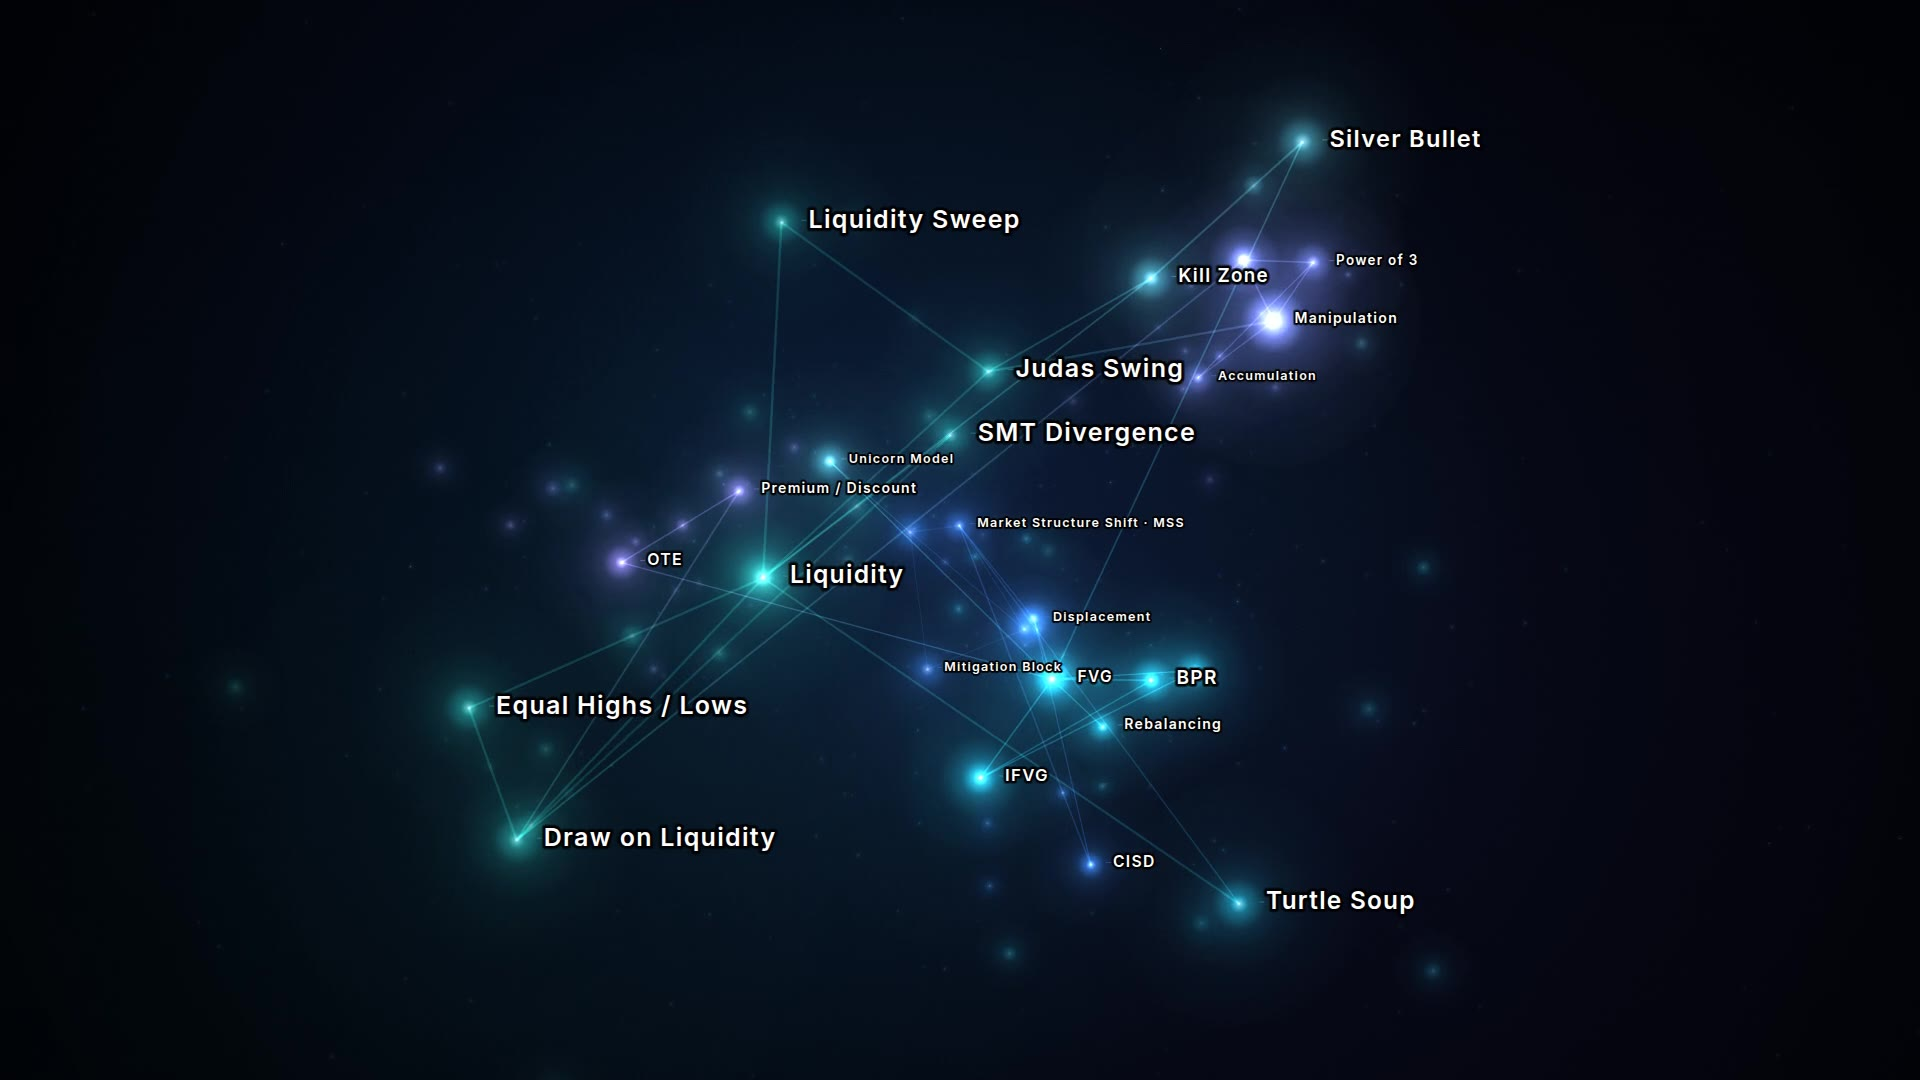
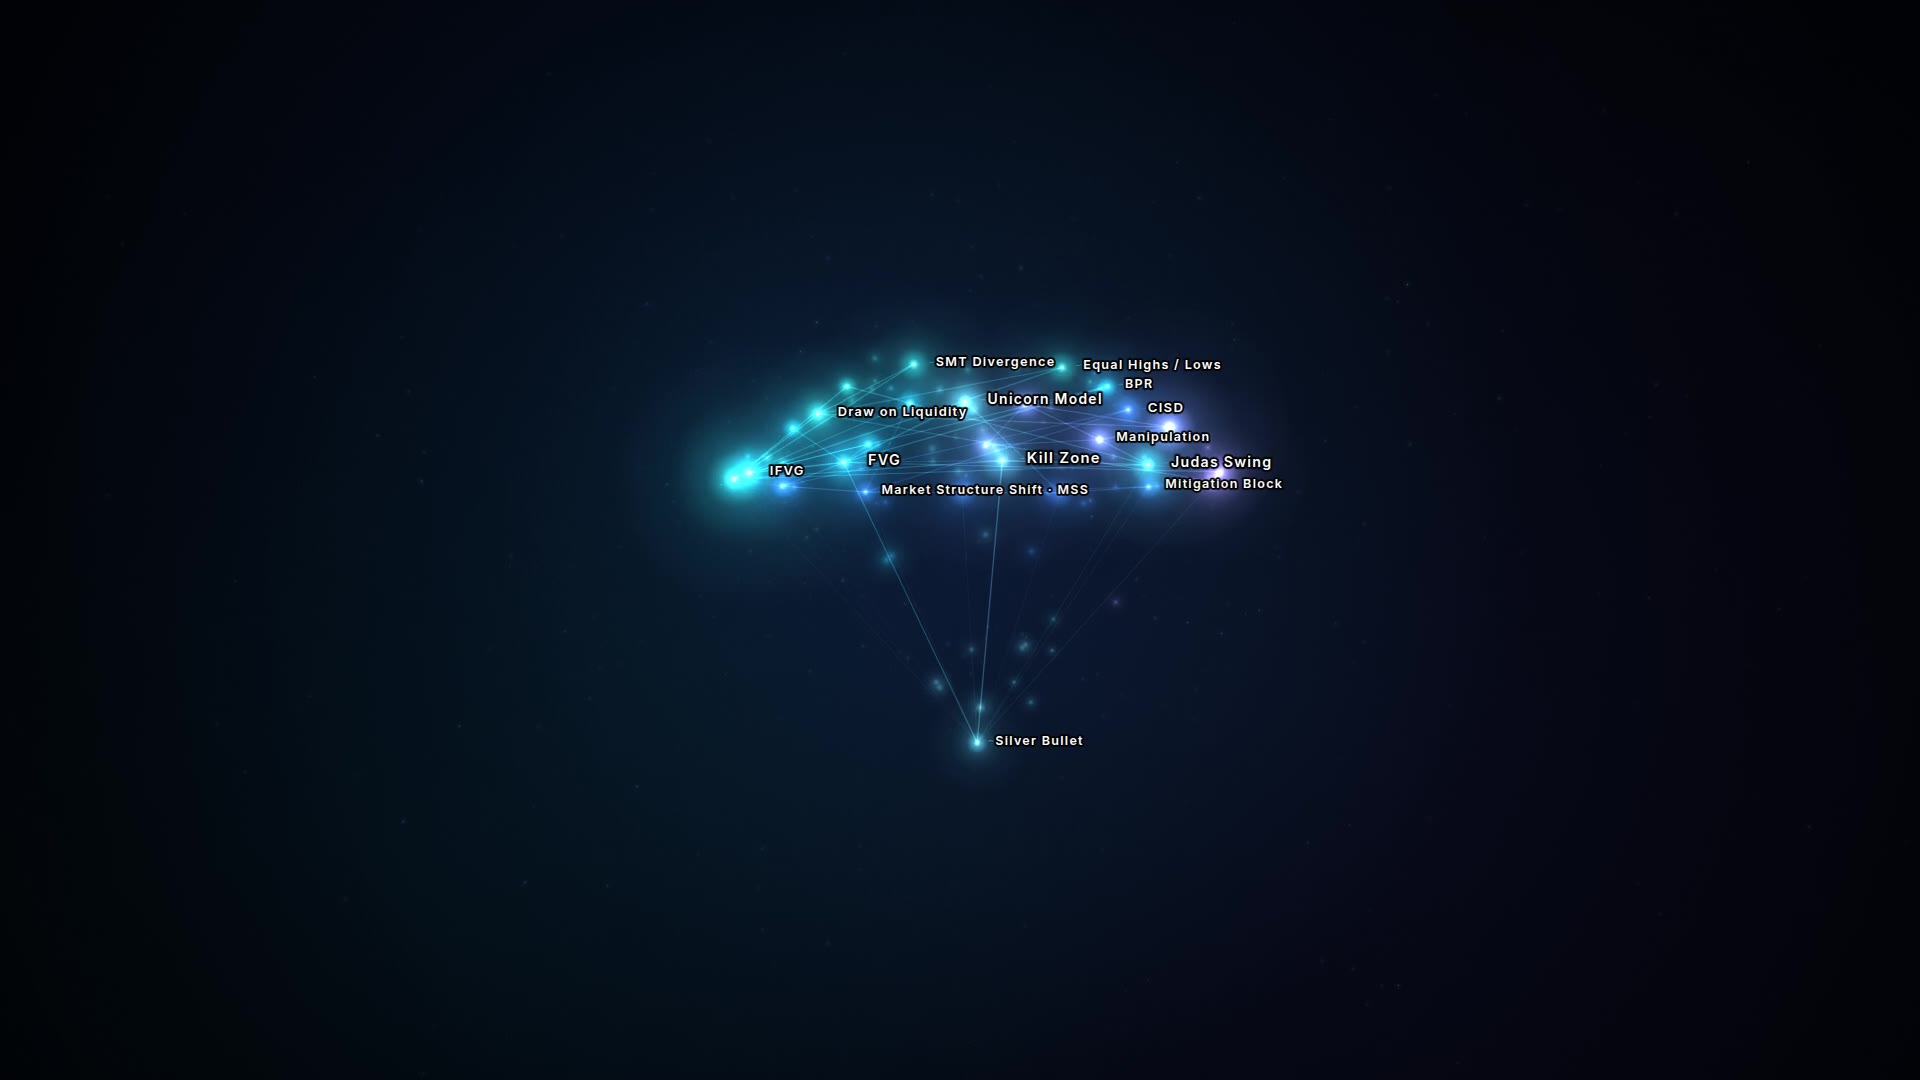
Reshape the graph into a forming diamond (berlian) before it collapses
The 27 concept nodes are now laid out on a 3D brilliant-cut gem — girdle
ring, culet point, crown and flat table — so as they ignite the graph
slowly forms a glowing diamond. A faceted wireframe (girdle outline,
pavilion-to-culet, crown, table) traces the silhouette; the camera settles
to a side-on pull-back and labels fade so the full reveal is a pure gem of
light, which then collapses inward and forges into the golden plug ICT
lockup. Node wobble reduced and camera path retuned to keep the gem crisp.

Claude-Session: https://claude.ai/code/session_01D4b59pq9wWdHZncFjxwX3y

diff --git a/assets/video/knowledge-graph/index.html b/assets/video/knowledge-graph/index.html
@@ -164,25 +164,53 @@ const byName = {}; nodes.forEach(n=>byName[n.name]=n);
 edges = EDGES.map(e=>({a:byName[e[0]], b:byName[e[1]], key:e[2],
                        ph:rng(), cyc:2.4+rng()*1.2, prog:0}));
 
-/* satellites: minor unlabeled nodes clustered near concepts */
+/* ---------- diamond (berlian) layout ----------
+   Reshape the concept nodes onto a 3D brilliant-cut gem so the whole graph
+   slowly forms a diamond as nodes ignite, then collapses into the wordmark.
+   Rings, in ignition order: girdle (widest) → culet (bottom point) → crown
+   → table (flat top). Facet edges trace the gem's silhouette. */
+const DIA = { cx: 30, cy: -30, cz: 0 };
+const RG=365, RC=288, RT=198;                 // girdle / crown / table radii
+const YG=70, YC=150, YT=214, YCU=-330;        // ring heights + culet depth
+const GN=12, CN=8, TN=6;
+function diaPt(r,y,ang){ return [DIA.cx+r*Math.cos(ang), DIA.cy+y, DIA.cz+r*Math.sin(ang)]; }
+const diaVerts=[], ring=[];
+for(let k=0;k<GN;k++){ diaVerts.push(diaPt(RG,YG, k/GN*2*Math.PI)); ring.push('g'); }
+diaVerts.push([DIA.cx, DIA.cy+YCU, DIA.cz]); ring.push('cu');
+for(let k=0;k<CN;k++){ diaVerts.push(diaPt(RC,YC, (k+0.5)/CN*2*Math.PI)); ring.push('c'); }
+for(let k=0;k<TN;k++){ diaVerts.push(diaPt(RT,YT, k/TN*2*Math.PI)); ring.push('t'); }
+nodes.forEach((n,i)=>{ if(diaVerts[i]){ n.base=diaVerts[i].slice(); n.ring=ring[i]; n.vi=i; } });
+
+/* structural facet wireframe (indices into nodes[]) */
+const GI=i=>i, CU=GN, CI=i=>GN+1+i, TI=i=>GN+1+CN+i;
+let facetEdges=[];
+const fe=(a,b,kind)=>facetEdges.push({a:nodes[a], b:nodes[b], kind, ph:rng()});
+for(let k=0;k<GN;k++) fe(GI(k), GI((k+1)%GN), 'girdle');   // widest outline
+for(let k=0;k<GN;k++) fe(GI(k), CU, 'pav');                // pavilion → culet point
+for(let k=0;k<TN;k++) fe(TI(k), TI((k+1)%TN), 'table');    // flat top outline
+for(let k=0;k<CN;k++){                                     // crown facets
+  const ang=(k+0.5)/CN;
+  fe(CI(k), GI(Math.round(ang*GN)%GN), 'crown');
+  fe(CI(k), TI(Math.round(ang*TN)%TN), 'crown');
+}
+
+/* satellites: sparkle riding the gem's facet edges */
 for(let i=0;i<46;i++){
-  const host = nodes[Math.floor(rng()*nodes.length)];
+  const f = facetEdges[Math.floor(rng()*facetEdges.length)];
+  const tt = 0.18 + rng()*0.64;
+  const host = tt<0.5 ? f.a : f.b;
   const s = {
-    base:[ host.base[0]+(rng()*2-1)*185,
-           host.base[1]+(rng()*2-1)*165,
-           host.base[2]+(rng()*2-1)*185 ],
-    col: mix3(host.col, PAL.blue, rng()*0.5),
-    tIgn: 3.2 + rng()*9.0,
+    base:[ lerp(f.a.base[0],f.b.base[0],tt)+(rng()*2-1)*22,
+           lerp(f.a.base[1],f.b.base[1],tt)+(rng()*2-1)*22,
+           lerp(f.a.base[2],f.b.base[2],tt)+(rng()*2-1)*22 ],
+    col: mix3(host.col, PAL.ice, rng()*0.5),
+    tIgn: 3.2 + rng()*8.4,
     ph: rng()*Math.PI*2,
-    r: 2.1 + rng()*1.7,
+    r: 1.9 + rng()*1.5,
     host,
   };
   sats.push(s);
   satEdges.push({a:s, b:host, ph:rng()});
-  if(rng()<0.35){
-    const other = nodes[Math.floor(rng()*nodes.length)];
-    if(other!==host) satEdges.push({a:s, b:other, ph:rng()});
-  }
 }
 
 /* ambient dust field */
@@ -203,11 +231,12 @@ for(let i=0;i<380;i++){
 }
 
 /* ---------- camera : catmull-rom orbit path ---------- */
-const CAM_KEYS = { /* t : [azimuth, elevation, radius] */
-  t:[0,     3,     7,    11,    14.5,  17.2,  20.7,  26],
-  az:[-0.25,-0.05, 0.45, 1.05,  1.50,  1.72,  1.82,  1.86],
-  el:[0.06,  0.02, 0.14,-0.04,  0.12,  0.05,  0.03,  0.03],
-  r:[2100,  1500,  950,  820,  1050,  1450,  1600,  1650],
+const CAM_KEYS = { /* t : [azimuth, elevation, radius] — settles to a side-on
+   pull-back so the diamond silhouette reads, with a gentle facet-catching turn */
+  t:[0,     3,     7,     11,    13.5,  16.0,  17.2,  20.7,  26],
+  az:[-0.30,-0.02, 0.42,  0.82,  1.02,  1.20,  1.34,  1.46,  1.50],
+  el:[0.10,  0.05, 0.14,  0.03,  0.006, 0.0,   0.012, 0.03,  0.03],
+  r:[2100,  1520,  1080,  980,   1300,  1540,  1560,  1600,  1650],
 };
 function camChannel(ch, t){
   const ts = CAM_KEYS.t, vs = CAM_KEYS[ch];
@@ -221,7 +250,8 @@ const FOV = 950, NEAR = 60;
 let cam = null;
 function computeCamera(t){
   const az=camChannel('az',t), el=camChannel('el',t), r=camChannel('r',t);
-  const tgt=[45*Math.sin(0.12*t), 30*Math.sin(0.09*t+1.3), 25*Math.sin(0.07*t)];
+  /* frame on the gem's centre (between table and culet) with a gentle drift */
+  const tgt=[30+26*Math.sin(0.12*t), -60+20*Math.sin(0.09*t+1.3), 20*Math.sin(0.07*t)];
   const pos=[ tgt[0]+r*Math.sin(az)*Math.cos(el),
               tgt[1]+r*Math.sin(el),
               tgt[2]-r*Math.cos(az)*Math.cos(el) ];
@@ -403,9 +433,9 @@ function buildPool(){
 
 /* ---------- world-position helpers ---------- */
 function nodeWorld(n,t){
-  return [ n.base[0]+6*Math.sin(t*0.5+n.ph),
-           n.base[1]+6*Math.sin(t*0.43+n.ph*1.7),
-           n.base[2]+6*Math.sin(t*0.37+n.ph*2.3) ];
+  return [ n.base[0]+2.6*Math.sin(t*0.5+n.ph),
+           n.base[1]+2.6*Math.sin(t*0.43+n.ph*1.7),
+           n.base[2]+2.6*Math.sin(t*0.37+n.ph*2.3) ];
 }
 function dustWorld(d,t){
   return [ d.base[0]+d.vel[0]*t+14*Math.sin(t*0.11+d.ph),
@@ -431,7 +461,9 @@ function renderFrame(frame){
   const nebEnv   = smooth(0.4,6,t) * (1 - 0.93*smooth(T_CARD,22.5,t));
   const dustEnv  = smooth(0.3,2.4,t);
   const convW    = smooth(T_CONV, T_CONV+0.1, t);       /* morph active */
-  const labelOut = 1 - smooth(T_CONV, T_CONV+0.9, t);
+  /* labels read during the build, then fade as the gem completes so the
+     final reveal is a clean glowing diamond before it collapses */
+  const labelOut = 1 - smooth(15.3, 16.5, t);
   const edgeOut  = 1 - smooth(T_CONV+0.4, T_CONV+1.5, t);
   const partOut  = 1 - smooth(21.4, 22.9, t);           /* morph particles fade */
 
@@ -478,6 +510,25 @@ function renderFrame(frame){
   });
 
   if(convW<1){
+    /* ----- diamond facet wireframe (structural gem silhouette) ----- */
+    for(const f of facetEdges){
+      const A=P[f.a.name], B=P[f.b.name];
+      if(!A.pr||!B.pr) continue;
+      const igA=A.ig.b, igB=B.ig.b;
+      const prog = smooth(0, 0.7, t - Math.max(f.a.tIgn, f.b.tIgn) + 0.1);
+      if(prog<=0.01) continue;
+      const bx=lerp(A.pr.x,B.pr.x,prog), by=lerp(A.pr.y,B.pr.y,prog);
+      const blur=(dof(A.pr.z)+dof(B.pr.z))/2;
+      const base = f.kind==='girdle'?0.17 : f.kind==='pav'?0.12 : 0.075;
+      const shimmer = 0.72 + 0.28*Math.sin(t*1.5 + f.ph*6.28);
+      const a = base*Math.min(igA,igB)*(1-0.55*blur)*edgeOut*shimmer;
+      if(a<=0.004) continue;
+      ctx.strokeStyle=rgba(PAL.ice, a);
+      ctx.lineWidth=clamp((f.kind==='girdle'?1.15:0.8)*(A.pr.s+B.pr.s)/2, 0.3, 1.7);
+      ctx.globalAlpha=1;
+      ctx.beginPath(); ctx.moveTo(A.pr.x,A.pr.y); ctx.lineTo(bx,by); ctx.stroke();
+    }
+
     /* ----- edges ----- */
     for(const e of edges){
       const A=P[e.a.name], B=P[e.b.name];

diff --git a/assets/video/knowledge-graph/README.md b/assets/video/knowledge-graph/README.md
@@ -20,9 +20,9 @@ SMT Divergence, Liquidity Sweep, Turtle Soup, Power of 3, BPR, Equal Highs/Lows.
 | Time | Beat |
 |---|---|
 | 0.0 – 2.4 s | Darkness; ambient particles fade in over midnight-blue haze |
-| 2.4 – 12.5 s | Concept nodes ignite one by one (FVG → Distribution) and connect; bright-white, black-outlined labels fade in |
-| 12.5 – 17.2 s | Full network alive — pulses travel key relationships (Liquidity ↔ Draw on Liquidity, Accumulation → Manipulation → Distribution, Kill Zone ↔ Silver Bullet…) while the camera glides through |
-| 17.2 – 20.6 s | Every light in the scene streams inward, turning gold as it condenses into the *plug* **ICT** letterforms; warm flash + sub-bass impact |
+| 2.4 – 13.5 s | Concept nodes ignite one by one and connect, assembling onto a 3D brilliant-cut **diamond** (girdle ring → culet point → crown → table); bright-white, black-outlined labels fade in; facet wireframe traces the gem |
+| 13.5 – 17.2 s | The camera settles to a side-on pull-back; labels fade so the full graph reads as a glowing diamond of light, facets shimmering |
+| 17.2 – 20.6 s | The diamond collapses inward, every light streaming in and turning gold as it condenses into the *plug* **ICT** letterforms; warm flash + sub-bass impact |
 | 20.6 – 26.0 s | Forge reveal: a flare sweeps left→right transmuting the particle-word into the solid golden lockup; divider draws from a glint; "Search the ICT vault" cascades in letter by letter; embers rise; fade out |
 
 ## How it's made